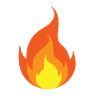
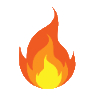
Added transparent .png files
Added new .png files for new elements in the /PNG folder under ART

Also made the game grab assets from the PNG folder

diff --git a/src/main/java/com/example/alchemygame/AlchemyGameController.java b/src/main/java/com/example/alchemygame/AlchemyGameController.java
@@ -24,6 +24,7 @@ public class AlchemyGameController {
     final ObservableList<ElementPair> intersections = FXCollections.observableArrayList();
 
     final ObservableList<ElementData> elementDataList = FXCollections.observableArrayList(); //Stores all the data for elements
+    final ObservableList<ElementData> elementUnlockedList = FXCollections.observableArrayList(); //Stores the unlocked elements
 
     @FXML
     public AnchorPane CombinePane;
@@ -55,7 +56,7 @@ public class AlchemyGameController {
     public void initialize() {
         ImageView[] images = {Fire, Water, Earth, Air, Tree, Stone};
         for (ImageView bases : images) {
-            String imagePath = "/ART/" + bases.getId().toLowerCase() + ".jpg";
+            String imagePath = "/ART/PNG/" + bases.getId().toLowerCase() + ".png";
             Image image = new Image(getClass().getResourceAsStream(imagePath));
             bases.setImage(image);
             enableCopy(bases);
@@ -66,6 +67,10 @@ public class AlchemyGameController {
         List<ElementData> elementList;
         elementList = FileReader.getElements("src/main/resources/ElementList.csv");
         elementDataList.addAll(elementList);
+
+        for (int i = 0; i <= 5; i++) {
+            elementUnlockedList.addAll(elementDataList.get(i));
+        }
 
         // Displays all initialized elements and their combinations
         System.out.print("Initialized Elements:\n");

diff --git a/src/main/java/com/example/alchemygame/Element.java b/src/main/java/com/example/alchemygame/Element.java
@@ -14,7 +14,7 @@ public class Element extends ImageView{
     // Constructor
     public Element(String elementName) {
         this.elementName = elementName.toLowerCase();
-        String imagePath = "/ART/" + elementName.toLowerCase() + ".jpg";
+        String imagePath = "/ART/PNG/" + elementName.toLowerCase() + ".png";
         Image image = new Image(getClass().getResourceAsStream(imagePath));
         this.setImage(image);
         this.setId(elementName);

diff --git a/src/main/java/com/example/alchemygame/ElementData.java b/src/main/java/com/example/alchemygame/ElementData.java
@@ -15,7 +15,7 @@ public class ElementData {
     // Constructor
     public ElementData(String elementName) {
         this.elementName = elementName.toLowerCase(); // Sets name data
-        String imagePath = "/ART/" + elementName.toLowerCase() + ".jpg";
+        String imagePath = "/ART/PNG/" + elementName.toLowerCase() + ".png";
         this.image = new Image(getClass().getResourceAsStream(imagePath));
     }
 
